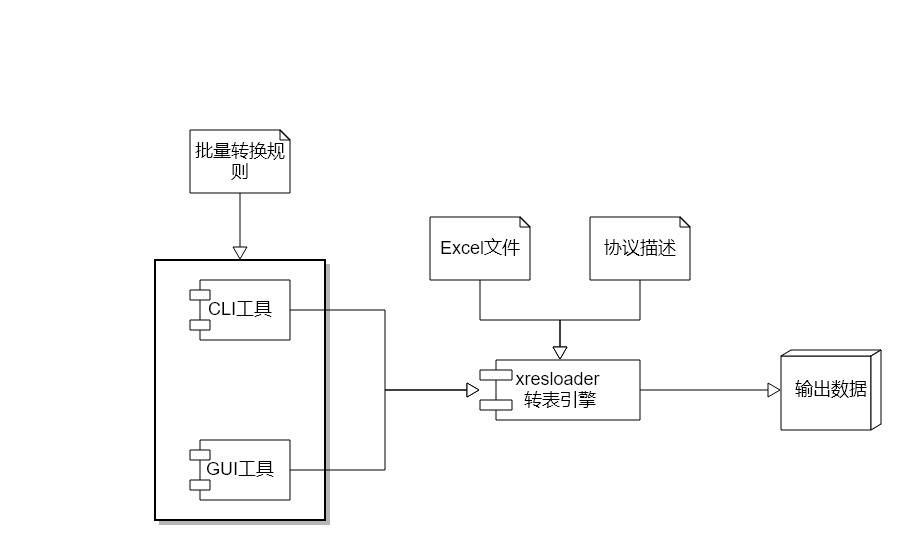
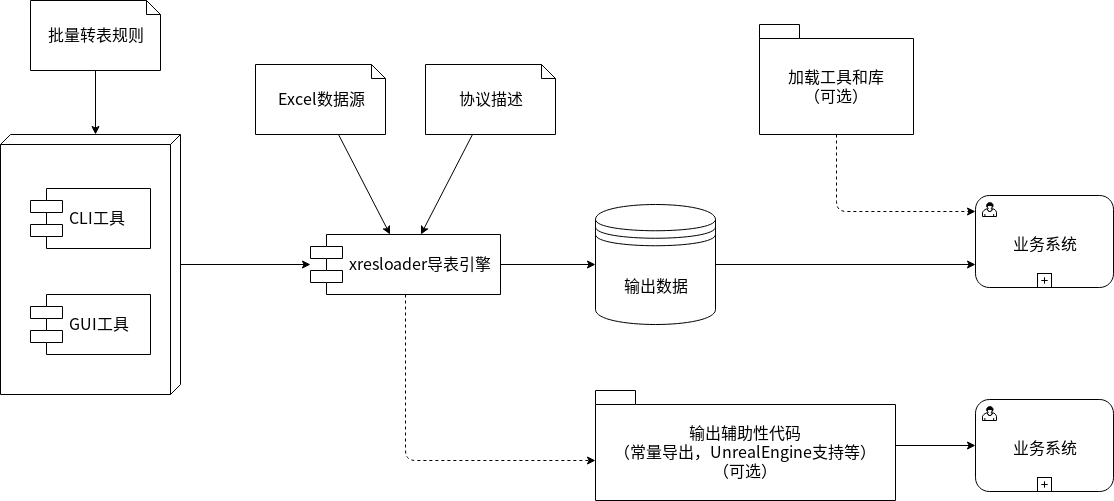
update developing document

diff --git a/source/users/xresconv.rst b/source/users/xresconv.rst
@@ -7,18 +7,18 @@
 .. _xresconv-conf: https://github.com/xresloader/xresconv-conf
 
 在实际项目中，我们一般会同时涉及几十甚至上百张表。为了统一配置，我们提供了批量转表工具。
-批量转表分为 `命令行批量转表工具-xresconv-cli <xresconv-cli>`_ 和 `GUI批量转表工具-xresconv-gui <xresconv-gui>`_ 两个工具。
+批量转表分为 命令行批量转表工具-`xresconv-cli`_ 和 GUI批量转表工具-`xresconv-gui`_ 两个工具。
 
 前者用于服务器和客户端发布流程的集成，后者主要提供给临时转表和策划验证数据时可以拿来转出部分数据。
 这两个工具都以 `批量转表配置模板仓库-xresconv-conf <xresconv-conf>`_ 中的配置为配置规范。
 
 .. image:: ../_static/users/quick_start_cli_sample.png
 
-以上为 `命令行批量转表工具-xresconv-cli <xresconv-cli>`_ 的输出示例。
+以上为 命令行批量转表工具-`xresconv-cli`_ 的输出示例。
 
 .. image:: ../_static/users/quick_start_gui_sample.png
 
-以上为 `GUI批量转表工具-xresconv-gui <xresconv-gui>`_ 的输出示例。
+以上为 GUI批量转表工具-`xresconv-gui`_ 的输出示例。
 
 我们在 :ref:`快速上手-配置批量转表配置文件 <quick-start-configure-sheme>` 章节里也提供了一个简单的例子：
 
@@ -32,7 +32,7 @@
     :language: xml
     :encoding: utf-8
 
-如上时所有支持的标签的说明及示例配置。
+如上是所有支持的标签的说明及示例配置。
 
 除了前面章节提及过的字段外，还有一些特别的配置。
 
@@ -48,13 +48,14 @@
 GUI批量转表工具的特殊事件
 ---------------------------------------------
 
-其他得配置看内容应该比较容易理解，但是 `GUI工具 <xresconv-gui>`_ 还有一些额外的配置，遍域用来做工具集成，需要特别说明一下
+其他得配置看内容应该比较容易理解，但是 GUI工具 `xresconv-gui`_ 还有一些额外的配置，遍域用来做工具集成，需要特别说明一下
 
 第一个是 ``//root/gui/set_name`` 这是里面必须是一个有效的nodejs代码，传入的参数是：
 
 .. code-block:: javascript
 
     {
+        work_dir: "工作目录",
         item_data: {
             id: "条目ID",
             file: "数据源文件",
@@ -64,10 +65,11 @@ GUI批量转表工具的特殊事件
             options: ["额外选项"],
             desc: "描述信息",
             scheme_data: {"元数据Key": "元数据Value"}
-        }
+        },
+        configure_file: "载入的配置文件路径"
     }
 
-这个结构。在 `GUI工具 <xresconv-gui>`_ 显示每个条目的时候会运行这个函数并传入上述结构，在函数里我们可以通过改变 ``name`` 和 ``desc`` 来改变 `GUI工具 <xresconv-gui>`_ 工具的显示内容。
+这个结构。在 GUI工具 `xresconv-gui`_ 显示每个条目的时候会运行这个函数并传入上述结构，在函数里我们可以通过改变 ``name`` 和 ``desc`` 来改变 GUI工具 `xresconv-gui`_ 工具的显示内容。
 
 比如 `批量转表配置模板仓库-xresconv-conf <xresconv-conf>`_ 中的 ``sample.xml`` 文件，我们给所有条目的名字附加上了不带后缀的文件名。
 
@@ -79,6 +81,7 @@ GUI批量转表工具的特殊事件
 
     {
         work_dir: "执行xresloader的工作目录",
+        configure_file: "载入的配置文件路径",
         xresloader_path: "xresloader目录",
         global_options: {"全局选项": "VALUE"},
         selected_nodes: ["选中要执行转表的节点集合"],

diff --git a/source/development/design_xresloader.rst b/source/development/design_xresloader.rst
@@ -1,2 +1,8 @@
 转表引擎设计模型
 ==============================
+
+转表引擎是用于给各类其他工具集成的底层转表系统。所以它是一个没有用户界面的命令行工具。为了适应多种输入来源和多种输出目标，同时兼顾系统内缓存命中率，转表引擎工作的第一步是会先从输入的命令行参数或标准输入的参数中读取转表规则的来源和转换的目标类型；然后第二步是根据输入的规则描述文件选择相对应的解析模块，构建出完整的输入和输出的规则配置。接下来第三步转表引擎会根据这个配置选择结构化数据的描述解析模块（即：“输入协议模块”）读取整个数据结构的描述信息，并和读入Excel的列名相结合，构建出建立内部的抽象语法树（AST）。这一步的目的是实现把Excel中扁平化的数据描述翻译成结构化的数据描述；再进行第四步，把数据源中的每一行数据读取出来并构造出结构化的数据，并用数据验证器验证数据有效性。这一步的同时也可能会对数据做一些适配性质的处理。最后一步就是根据输出的类型，选取不同的输出模块写出到文件中。至此，转表的核心流程就完成了。
+
+转表引擎架构和流程大致如下:
+
+.. image:: ../_static/development/xresloader-architecture.png
